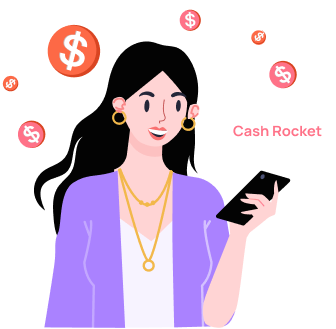
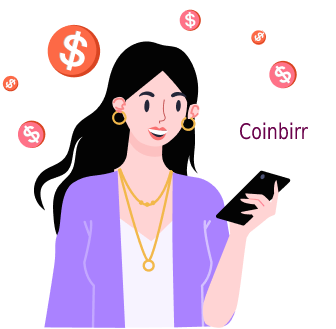
Coinbirr

Changed region(s): [[0.6845, 0.3647, 0.9524, 0.4255]]

diff --git a/lib/Screen/Home Screen/mt_home_screen.dart b/lib/Screen/Home Screen/mt_home_screen.dart
@@ -53,10 +53,12 @@ class _HomeScreenState extends State<HomeScreen> {
     checkInternet();
     super.initState();
     // remove this code on final product
-    FacebookAudienceNetwork.init(
+   /* FacebookAudienceNetwork.init(
         testingId: "37b1da9d-b48c-4103-a393-2e095e734bd6", //optional
         iOSAdvertiserTrackingEnabled: true //default false
     );
+
+    */
   }
 
   @override
@@ -68,7 +70,7 @@ class _HomeScreenState extends State<HomeScreen> {
 
   void loadInterstitial() {
     FacebookInterstitialAd.loadInterstitialAd(
-      placementId: "IMG_16_9_APP_INSTALL#YOUR_PLACEMENT_ID", // add # your id after test id
+      placementId: "IMG_16_9_APP_INSTALL#793824048967170_813764000306508", // add # your id after test id
       listener: (result, value) {
         if (result == InterstitialAdResult.LOADED)
           FacebookInterstitialAd.showInterstitialAd(delay: 5000);
@@ -673,7 +675,7 @@ class _HomeScreenState extends State<HomeScreen> {
                         if (i == 0) {
                           const Redeem().launch(context);
                         } else {
-                          Share.share('I have earned \$100 in a day. Use my refer code to earn \$10 on signup. My Refer Code is ${info.data?.user?.referCode ?? ''}');
+                          Share.share('I have earned \$10 in a day. Use my refer code to earn \$10 on signup. My Refer Code is ${info.data?.user?.referCode ?? ''}');
                         }
                       });
                     },
@@ -847,7 +849,7 @@ class _HomeScreenState extends State<HomeScreen> {
                                   )
                                 ],
                               ).onTap(
-                                  () => Share.share('I have earned \$100 in a day. Use my refer code to earn \$10 on signup. My Refer Code is ${info.data?.user?.referCode ?? ''}')),
+                                  () => Share.share('I have earned \$10 in a day. Use my refer code to earn \$10 on signup. My Refer Code is ${info.data?.user?.referCode ?? ''}')),
                             )
                           ],
                         )

diff --git a/lib/Screen/Home Screen/Features Screen/mt_wheel.dart b/lib/Screen/Home Screen/Features Screen/mt_wheel.dart
@@ -12,10 +12,12 @@ import 'package:flutter_easyloading/flutter_easyloading.dart';
 import 'package:flutter_riverpod/flutter_riverpod.dart';
 import 'package:internet_connection_checker/internet_connection_checker.dart';
 import 'package:nb_utils/nb_utils.dart';
+import 'package:startapp_sdk/startapp.dart';
 import 'package:unity_ads_plugin/unity_ads_plugin.dart';
 
 import '../../../Repositories/rewards_repo.dart';
 import '../../../Videos/Admob/admob.dart';
+import '../../../Videos/StartApp/startapp.dart';
 import '../../../Videos/UnityAds/unity_ads.dart';
 import '../../../test/src/core/core.dart';
 import '../../../test/src/indicators/indicators.dart';
@@ -71,6 +73,9 @@ class _WheelState extends State<Wheel> {
 
   bool isBalanceShow = false;
   Admob admob = Admob();
+  var startAppSdk = StartAppSdk();
+  StartApp startApp = StartApp();
+  bool isFirst = true;
 
   void showRewardPopUp(String amount) {
     showDialog(
@@ -155,6 +160,8 @@ class _WheelState extends State<Wheel> {
 
   @override
   Widget build(BuildContext context) {
+
+
     final items = <String>[
       '10',
       '20',
@@ -168,8 +175,12 @@ class _WheelState extends State<Wheel> {
       '100',
     ];
     return SafeArea(
+
       child: Scaffold(
         body: Consumer(builder: (_, ref, watch) {
+          isFirst? startApp.loadRewardedVideoAd(ref: ref):null;
+          isFirst = true;
+          AsyncValue<UserProfileModel> profile = ref.watch(personalProfileProvider);
           AsyncValue<UserProfileModel> userInfo = ref.watch(personalProfileProvider);
           return Stack(
             alignment: Alignment.topCenter,
@@ -370,7 +381,7 @@ class _WheelState extends State<Wheel> {
                           const SizedBox(height: 50.0),
                           ButtonGlobal(buttontext: lang.S.of(context).watchVideoAndEarn, buttonDecoration: kButtonDecoration, onPressed: (){
                             // admob.showRewardedAd(ref: ref);
-                            AdManager.showIntAd(ref: ref);
+                            startApp.showAds();
                           }),
                         ],
                       ),

diff --git a/lib/Screen/Splash Screen/on_board.dart b/lib/Screen/Splash Screen/on_board.dart
@@ -18,18 +18,18 @@ class _OnBoardState extends State<OnBoard> {
   int currentIndexPage = 0;
   List<Map<String, dynamic>> sliderList = [
     {
-      "title": 'Welcome to Cash Rocket',
-      "description": 'Amet minim mollit non deserunt ullamc est sit aliqua dolor amet Velit officia\nconsequat amet minim',
+      "title": 'Welcome to Coinbirr',
+      "description": 'Watch, Play, Get Paid! Earn rewards for watching videos and winning quizzes. Turn your entertainment into earnings with this exciting app.',
       "icon": 'images/onboard1.png',
     },
     {
       "title": 'Redeem Your Points',
-      "description": 'Amet minim mollit non deserunt ullamc est sit aliqua dolor amet Velit officia\nconsequat amet minim',
+      "description": 'Easily redeem your hard-earned points with CoinBirr. Use TeleBirr, bank transfers, or airtime cards to cash out and enjoy your rewards. Cash out anytime, anywhere!',
       "icon": 'images/onboard2.png',
     },
     {
       "title": 'Secure Your Money',
-      "description": 'Amet minim mollit non deserunt ullamc est sit aliqua dolor amet Velit officia\nconsequat amet minim',
+      "description": 'Enjoy secure transactions and peace of mind while using CoinBirr to manage your earnings.',
       "icon": 'images/onboard3.png',
     },
   ];

diff --git a/lib/Screen/Home Screen/Features Screen/mt_quiz.dart b/lib/Screen/Home Screen/Features Screen/mt_quiz.dart
@@ -32,10 +32,12 @@ class _MtQuizState extends State<MtQuiz> {
   void initState() {
     checkInternet();
     super.initState();
-    FacebookAudienceNetwork.init(
+    /* FacebookAudienceNetwork.init(
         testingId: "37b1da9d-b48c-4103-a393-2e095e734bd6", //optional
         iOSAdvertiserTrackingEnabled: true
-    );//default false
+    );
+    //default false
+     */
   }
 
 
@@ -48,7 +50,7 @@ class _MtQuizState extends State<MtQuiz> {
 
   void loadInterstitial() {
     FacebookInterstitialAd.loadInterstitialAd(
-      placementId: "IMG_16_9_APP_INSTALL#YOUR_PLACEMENT_ID", // add # your id after test id
+      placementId: "IMG_16_9_APP_INSTALL#793824048967170_813764000306508", // add # your id after test id
       listener: (result, value) {
         if (result == InterstitialAdResult.LOADED)
           FacebookInterstitialAd.showInterstitialAd(delay: 5000);

diff --git a/lib/Screen/Home Screen/Features Screen/mt_refer.dart b/lib/Screen/Home Screen/Features Screen/mt_refer.dart
@@ -139,7 +139,7 @@ class _ReferState extends State<Refer> {
                         ButtonGlobal(
                           buttontext: lang.S.of(context).inviteNow,
                           buttonDecoration: kButtonDecoration,
-                          onPressed: (() => Share.share('I have earned \$100 in a day. Use my refer code to earn \$10 on signup. My Refer Code is ${code.data?.user?.referCode ?? ''}')),
+                          onPressed: (() => Share.share('I have earned \$10 in a day. Use my refer code to earn \$10 on signup. My Refer Code is ${code.data?.user?.referCode ?? ''}')),
                         ),
                       ],
                     ),

diff --git a/lib/Screen/Splash Screen/splash_screen.dart b/lib/Screen/Splash Screen/splash_screen.dart
@@ -85,7 +85,7 @@ class _SplashScreenState extends State<SplashScreen> {
                     image: AssetImage('images/logo.png'),
                   ),
                   Text(
-                    'Cash Rocket',
+                    'Coinbirr',
                     style: kTextStyle.copyWith(color: Colors.white, fontWeight: FontWeight.bold, fontSize: 20.0),
                   )
                 ],
